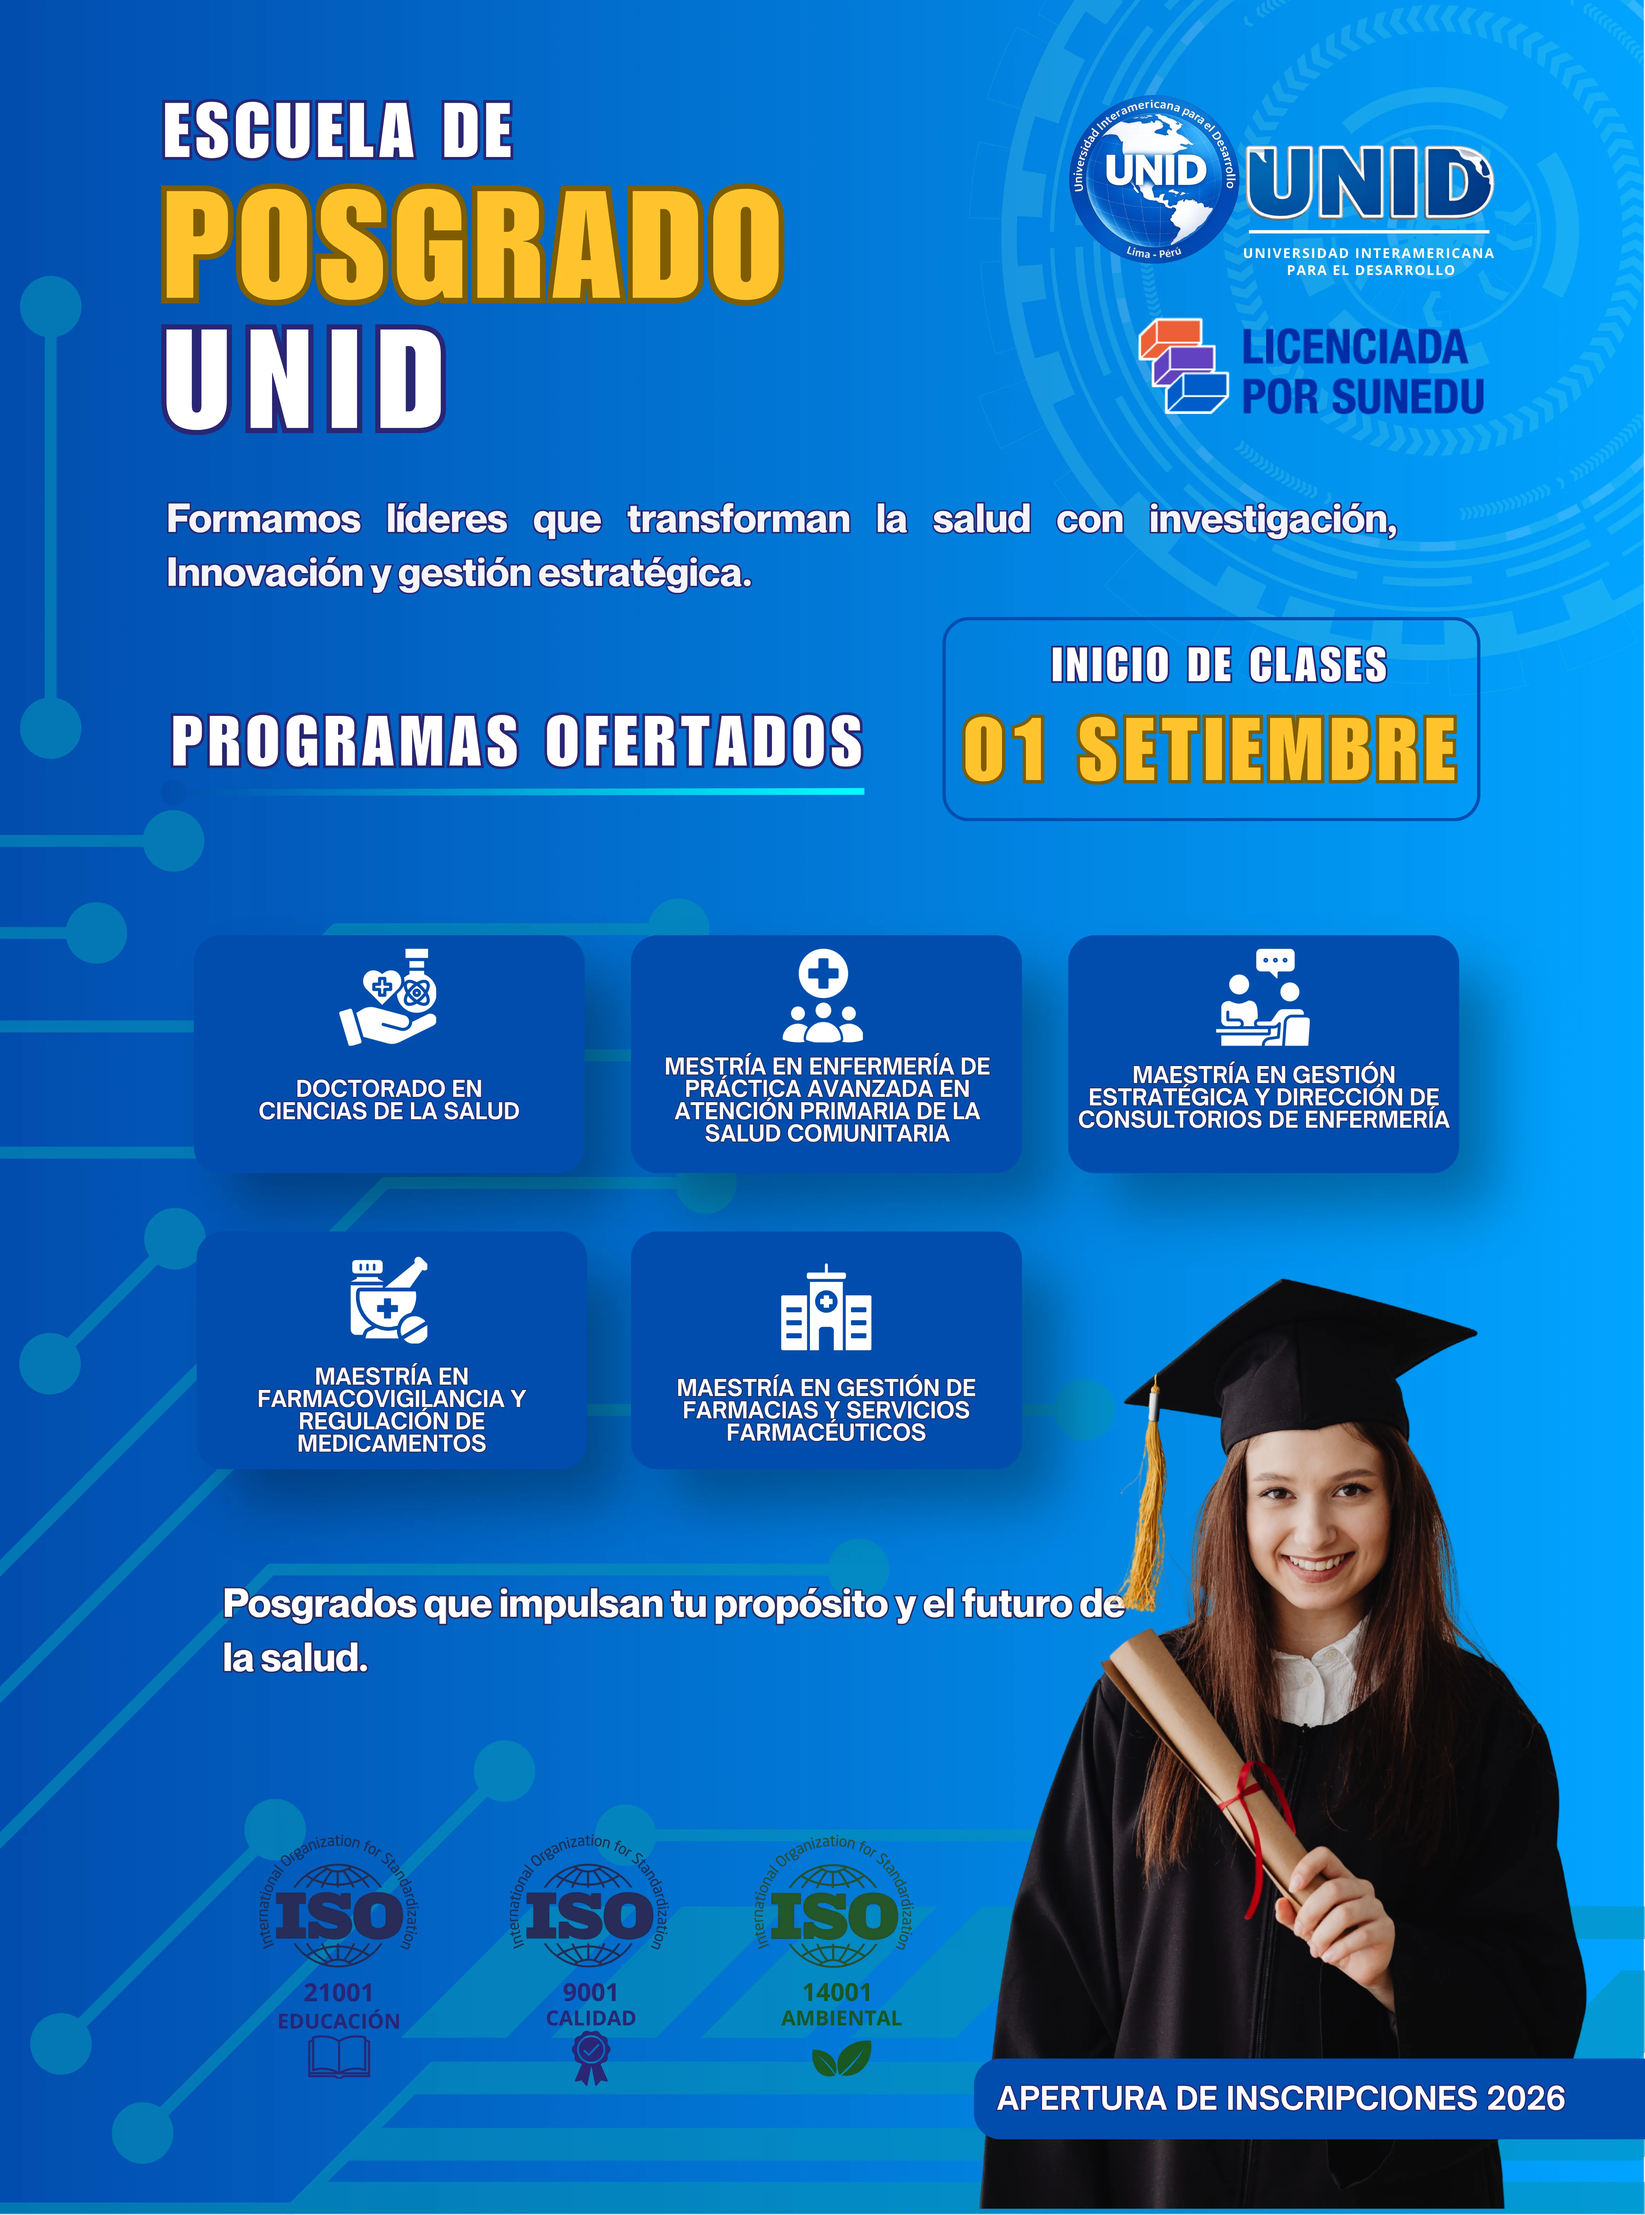
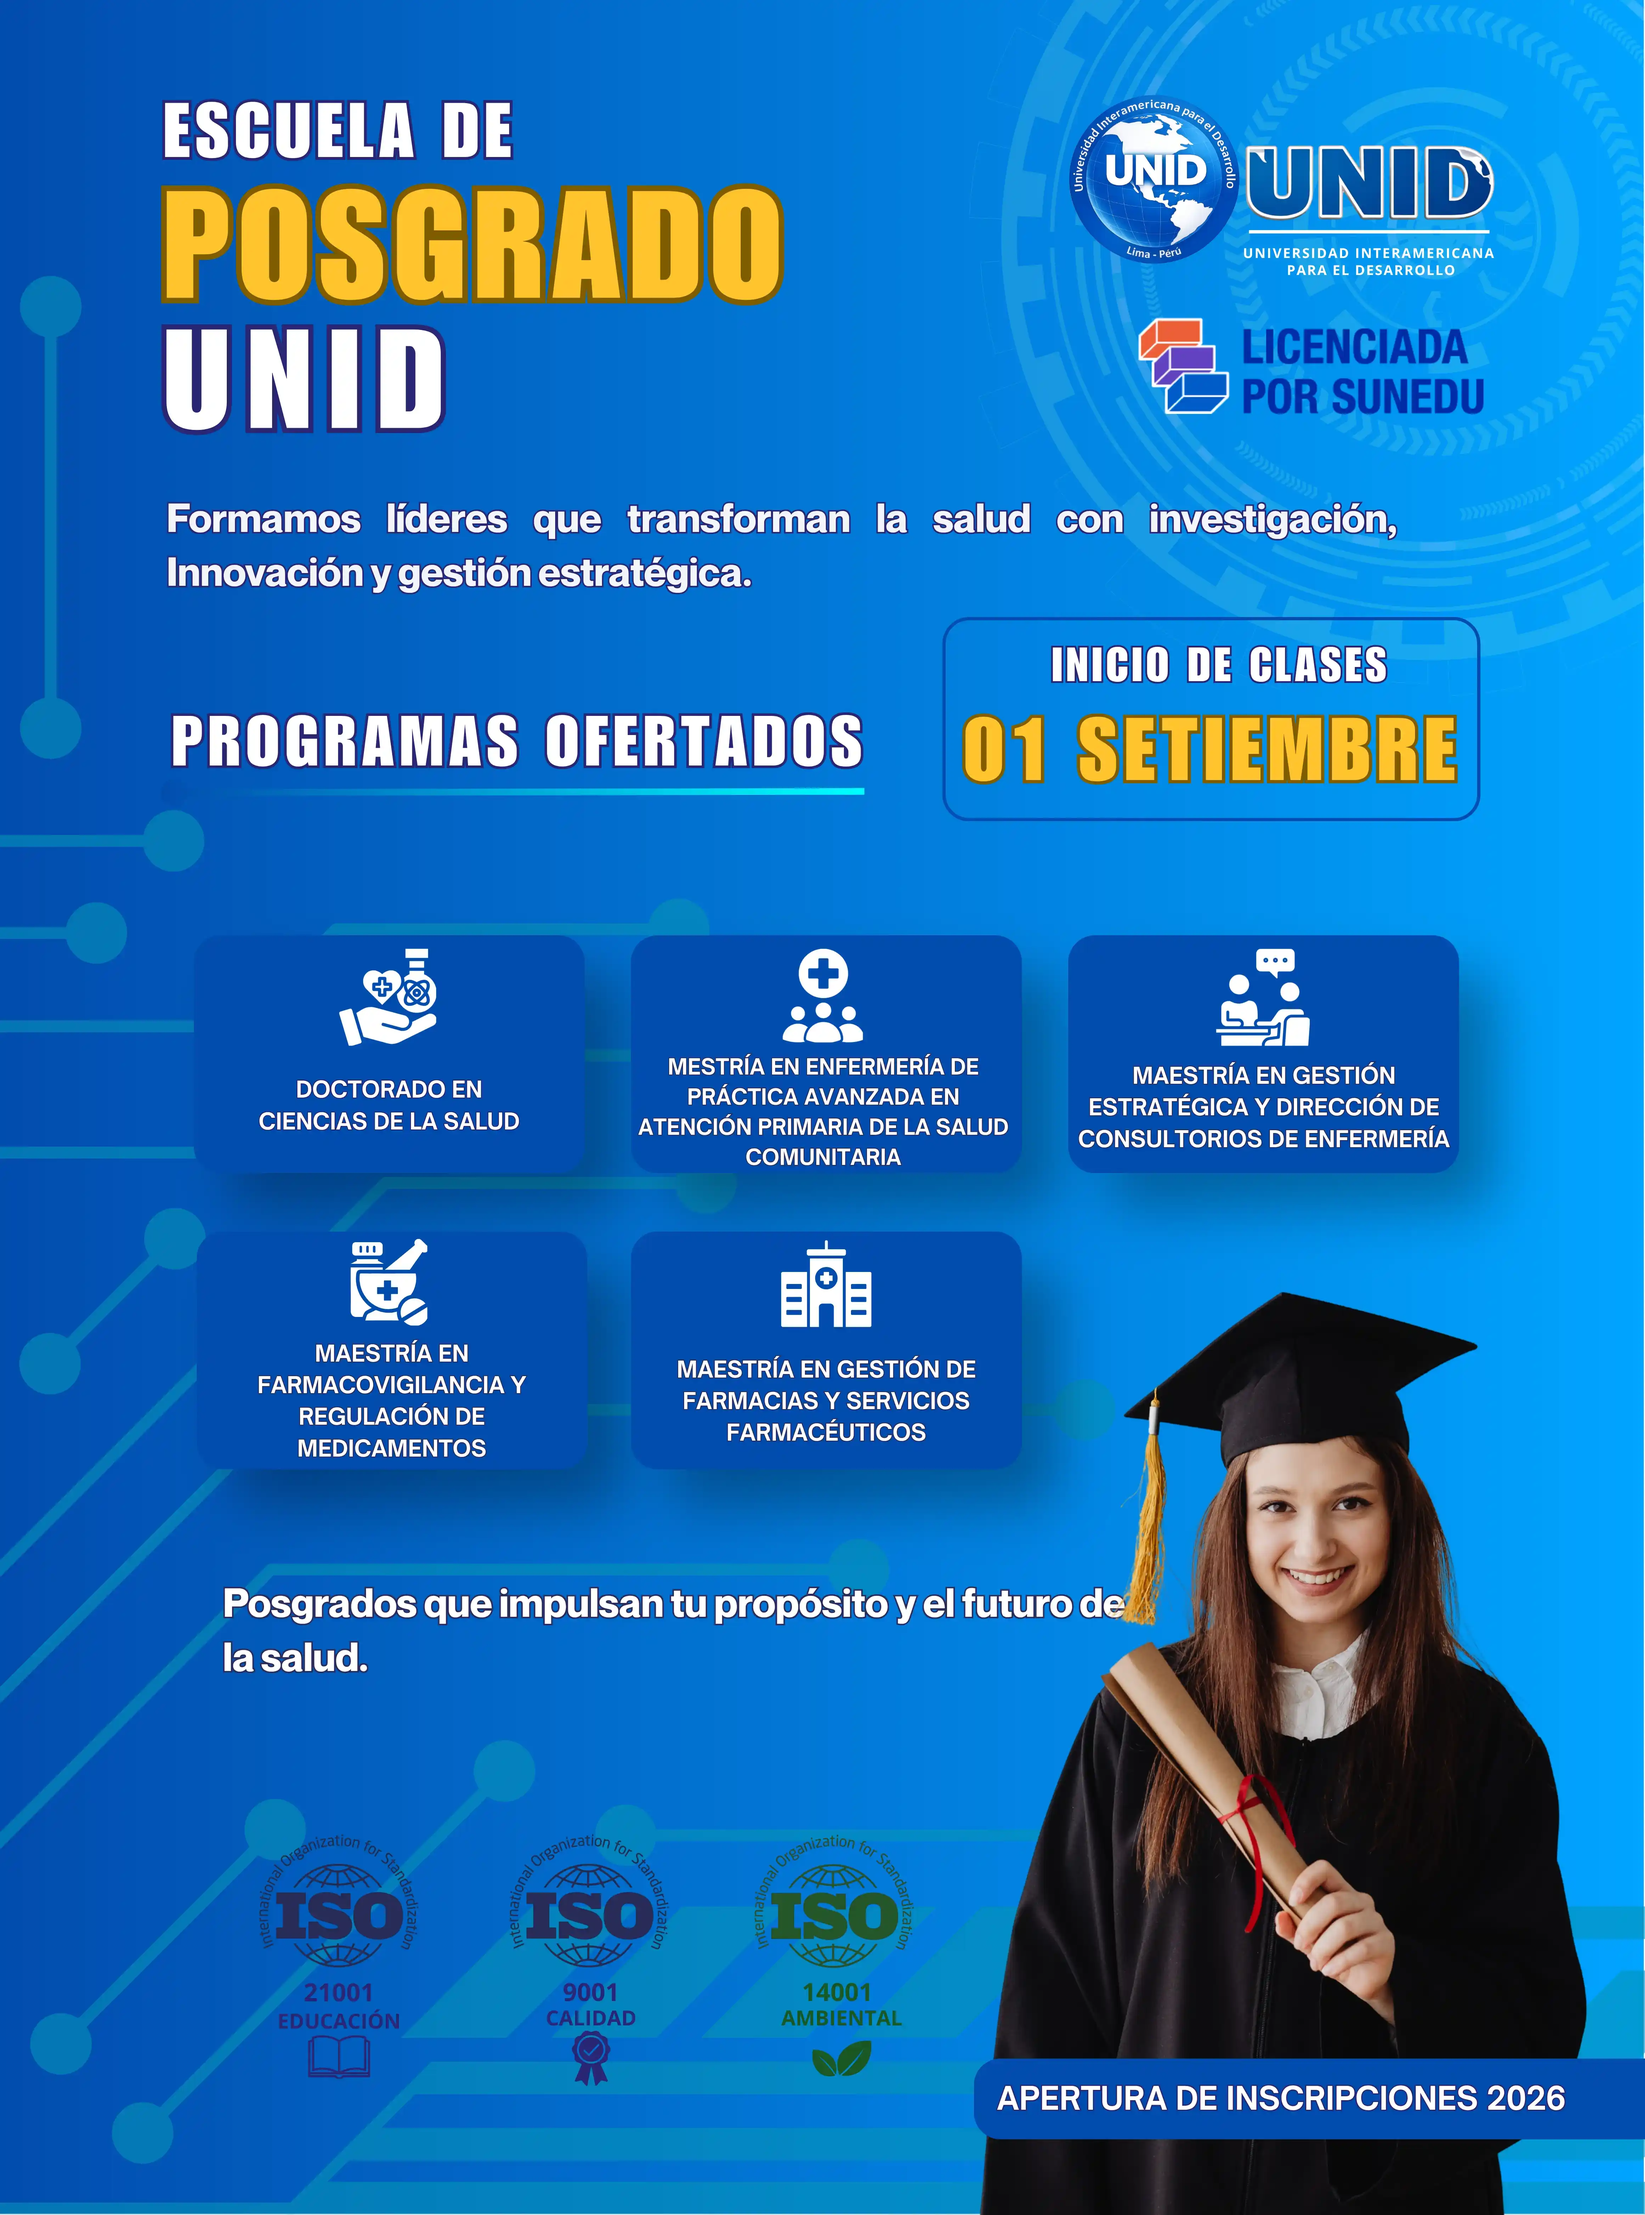
POPUP-OK

diff --git a/components/welcome-popup.tsx b/components/welcome-popup.tsx
@@ -89,7 +89,7 @@ export function WelcomePopup() {
             animate={{ opacity: 1, scale: 1 }}
             exit={{ opacity: 0, scale: 0.92 }}
             transition={{ type: "spring", damping: 25, stiffness: 280 }}
-            className="relative flex flex-col w-full max-w-[360px] bg-transparent rounded-md shadow-2xl overflow-hidden max-h-[90vh]"
+            className="relative flex flex-col max-w-[calc(100vw-2rem)] md:max-w-[600px] lg:max-w-[750px] bg-transparent rounded-md shadow-2xl overflow-hidden"
             onClick={(e) => e.stopPropagation()}
           >
             {/* Close Button - inside popup top right */}
@@ -102,7 +102,14 @@ export function WelcomePopup() {
             </button>
 
             {/* Post Image Body */}
-            <div className="relative w-full overflow-hidden bg-transparent rounded-md h-[560px] sm:h-[580px]">
+            <div className="relative w-full flex justify-center items-center bg-transparent rounded-md min-h-[300px]">
+              {/* Invisible placeholder to auto-size the container exactly to the image's real proportions */}
+              <img
+                src={slides[0].src}
+                alt="placeholder"
+                className="w-auto h-auto max-w-full max-h-[90vh] md:max-h-[85vh] opacity-0 pointer-events-none"
+              />
+
               <AnimatePresence>
                 <motion.div
                   key={currentSlide}
@@ -116,7 +123,7 @@ export function WelcomePopup() {
                     src={slides[currentSlide].src}
                     alt={slides[currentSlide].alt}
                     fill
-                    className="object-cover block rounded-md"
+                    className="object-contain block rounded-md"
                     priority
                   />
                   
